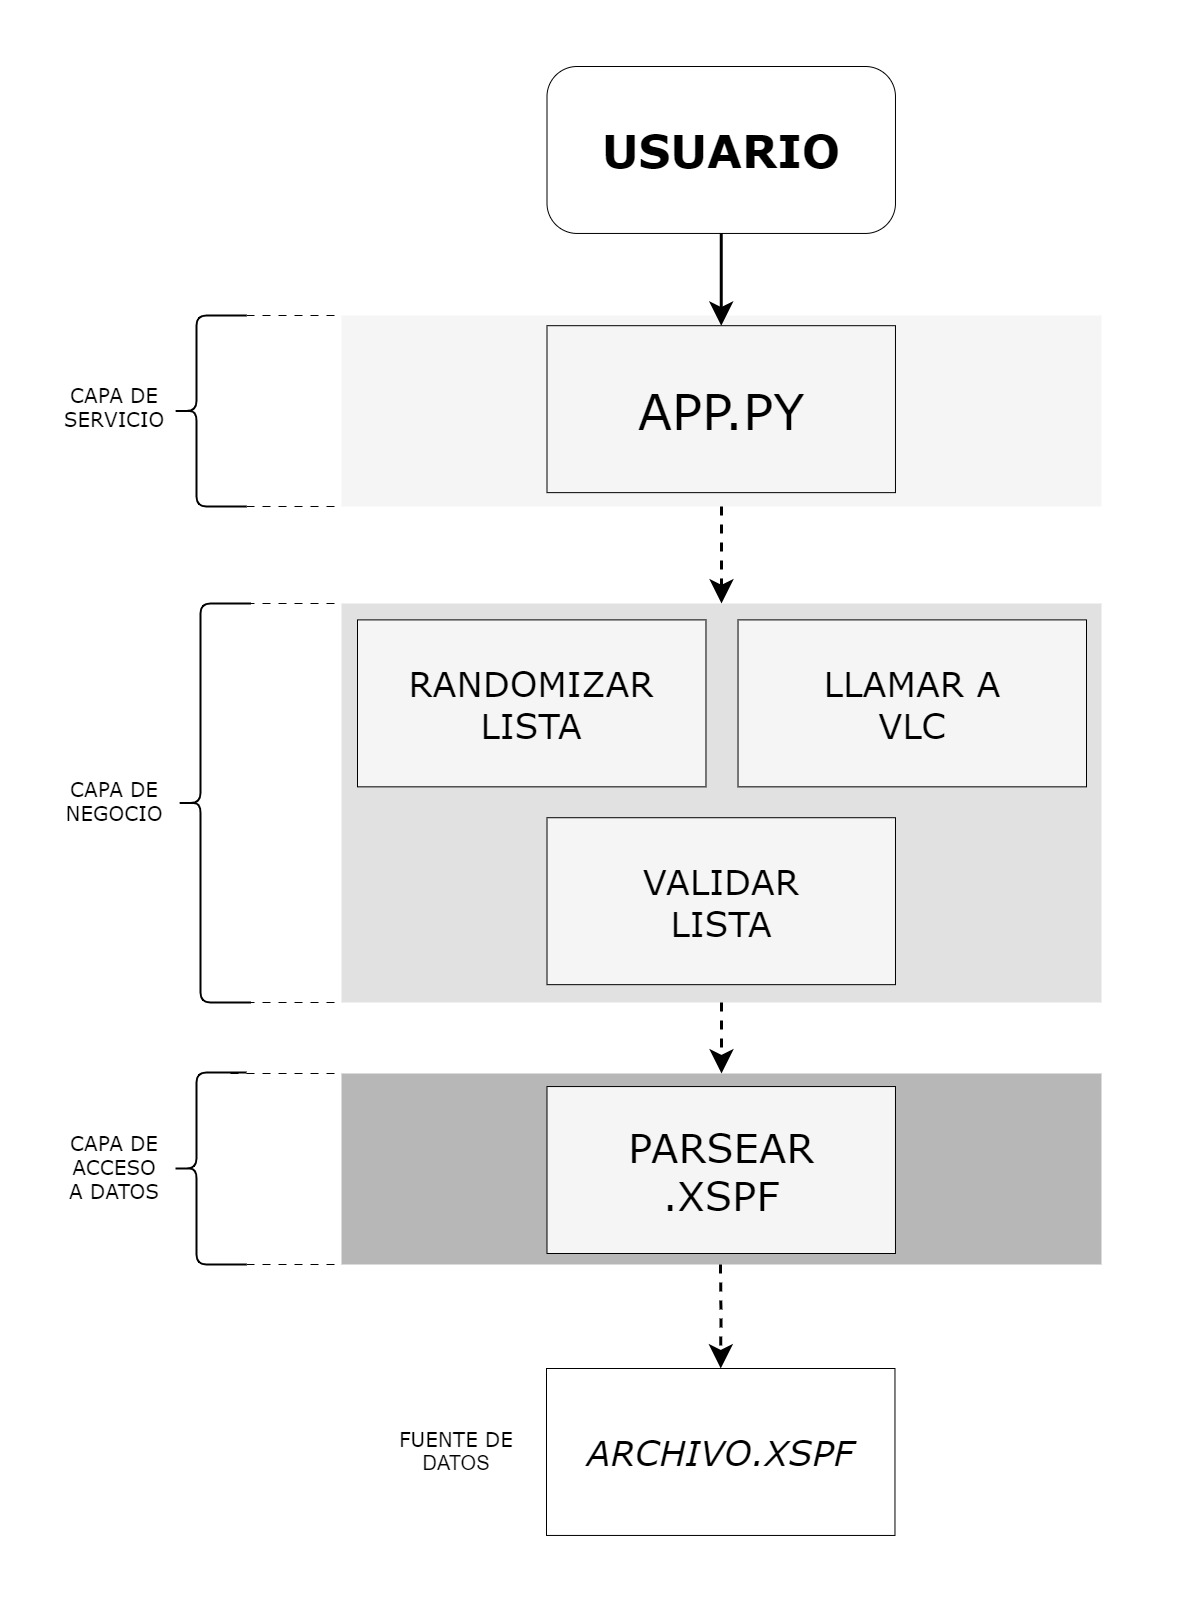
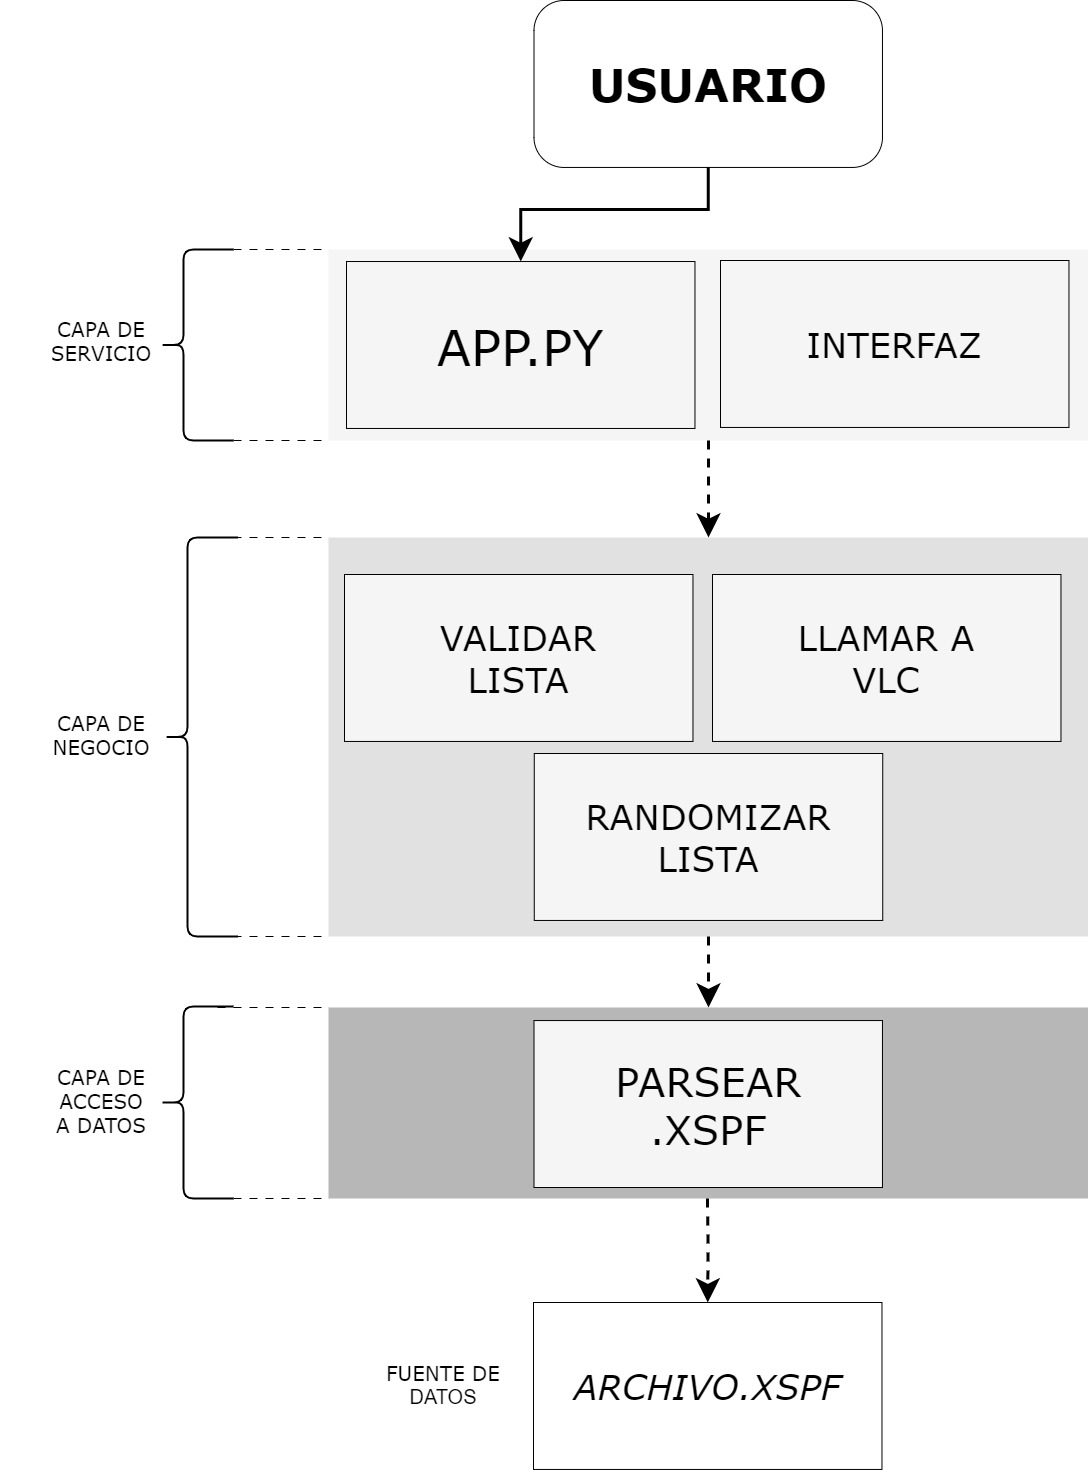
docs(README.md): añadir nueva documentación v 2.0.0

diff --git a/README.md b/README.md
@@ -115,20 +115,7 @@ Podemos reproducir una de las listas creadas en el directorio **lista_canciones*
 
 Por defecto tendremos dos listas válidas para reproducir, que son 'creedence.xspf' y 'lista_prueba.xspf'. Las canciones de estas dos listas se encuentran en el subdirectorio **canciones** (lista_canciones/canciones). Si el usuario quiere ejecutar su propia lista no necesita añadir las canciones a este subdirectorio, siempre que la ruta a las canciones se encuentre en el propio equipo y que el archivo .xspf se encuentre en un formato válido.
 
-El programa siempre va a exigir el nombre de la lista a reproducir. En caso de error en la escritura,error de formato del archivo o falta del nombre de la lista, se le indicará al usuario cual es el error para que pueda subsanarlo.
 
-1. **Abrimos un terminal**.
-    
-    - **Windows**:
-    ```
-    $ app.py creedence.xspf
-    ```
-
-    - **Linux**:
-    ```bash
-    $ python3 app.py creedence.xspf
-    ```
-    Debemos aseguramos de estar situados en el directorio raíz (retoVLC). Si el usuario quiere introducir su propia lista, cambiamos 'creedence.xspf' por el nombre de la lista deseada (incluida la extensión .xspf)
     
 2. Para detener la reproducción, **cerramos VLC**.
 
@@ -144,6 +131,8 @@ El programa siempre va a exigir el nombre de la lista a reproducir. En caso de e
 - **`main`**: La rama *main* representa la versión estable y lista para producción del proyecto. Cada versión estable se etiqueta con un número de versión. Actualmente, la primera y última versión estable es la **1.0.0**.
 
 - **`develop`**: La rama *develop* es la rama principal de desarrollo. Todas las nuevas características y desarrollos se realizan en esta rama. Es importante destacar que esta rama nunca debe considerarse como una versión estable del proyecto.
+
+- **`interfaz`**: Rama creada para el desarrollo de una interfaz gráfica.
 
 ### Flujo de Trabajo
 
@@ -196,6 +185,7 @@ Se utiliza esta estrategia para gestionar errores previsibles en la entrada de d
 
 - **Capa de servicio** 
     -   **app.py** - programa principal.
+    -   **interfaz.py** - crea la interfaz gráfica de usuario.
 
 - **Capa de negocio**
     
@@ -213,7 +203,11 @@ Se utiliza esta estrategia para gestionar errores previsibles en la entrada de d
 
 
 ## **Diseño**
-![Diseño](imagenes/diseño.jpg)
+![Diseño](imagenes/diseño2.jpg)
+
+#### `buscar_xspf.py` :
+Busca archivos con extensión .xspf en un directorio predefinido (lista_canciones). Usa os.listdir para obtener el contenido del directorio y filtra los archivos .xspf. Si el directorio no se encuentra, muestra un mensaje de error utilizando tkinter.messagebox.
+
 #### `parsear_xspf` :
  Lee un archivo XSPF y lo parsea utilizando xml.etree.ElementTree, extrayendo las localizaciones de canciones y devolviendo una lista. Maneja errores como archivos vacíos (o que no se pueden parsear) o archivos no encontrados.
     
@@ -226,10 +220,15 @@ Duplica y reordena aleatoriamente los elementos de una lista, validando que todo
 #### `llamar_vlc` :
 Ejecuta VLC con una lista de reproducción, considerando el sistema operativo y validando la existencia del ejecutable de VLC en rutas predefinidas.
 
+#### `interfaz.py` :
+Crea una interfaz gráfica con Tkinter para seleccionar y randomizar una lista de reproducción XSPF. Muestra un menú para elegir el archivo, instrucciones, y un botón para ejecutar la operación de randomización de canciones usando VLC.
+
 # **Implementación**
 ## **Tecnologías y Herramientas Elegidas**
 
 - [**Python**](https://docs.python.org/3/):
+
+    [`Tkinter`](https://docs.python.org/3/library/tkinter.html): Biblioteca estándar de Python para crear interfaces gráficas (GUI). Proporciona widgets como botones, cuadros de texto y menús para construir aplicaciones de escritorio de forma simple y nativa
 
     [`xml.etree.ElementTree`](https://docs.python.org/3/library/xml.etree.elementtree.html): Librería que permite parsear y manipular archivos XML, utilizado aquí para extraer información de un archivo XSPF.
 
@@ -273,8 +272,11 @@ En el proyecto se utilizan dos tipos de test:
 
 El módulo que llama a VLC no es posible testearlo con código, ya que la comprobación del proceso es la propia ejecución de VLC.
 
+**En la versión 2.0 del reto no se han realizado test de los módulos de interfaz añadidos. Es posible que algunos test existentes se vean afectados por el nuevo diseño de componentes, especialmente los que en la primera versión testaban la salida del programa.**
+
 ## Coverage
-Teniendo en cuenta lo anterior, podemos ver que los test planteados cubren un 100% de nuestro código (hay que tener en cuenta la exclusión del módulo 'llamar_vlc.py'.)
+Teniendo en cuenta lo anterior, podemos ver que los test planteados cubren un 100% de nuestro código (hay que tener en cuenta la exclusión del módulo 'llamar_vlc.py'.) 
+**De nuevo hay que tener en cuenta que no se han realizado los test de la versión 2.0**
 
 ![Coverage](imagenes/coverage.PNG)
 
@@ -282,7 +284,7 @@ Teniendo en cuenta lo anterior, podemos ver que los test planteados cubren un 10
 ## Clockify
 Utilizamos **Clockify**, una herramienta de seguimiento de tiempo en línea que ayuda a registrar, analizar y gestionar eficientemente el tiempo dedicado a tareas y proyectos.
 
-El tiempo total empleado es aproximadamente de unas `15 horas` 
+El tiempo total empleado es aproximadamente de unas `15 horas`. **No se tiene en cuenta el tiempo extra empleado en desarrollar para las nuevas funcionalidades de la interfaz.** 
 
 La distribución de tiempo entre las distintas partes del proyecto es la que sigue:
 ![Queso](imagenes/queso_horas.png)
